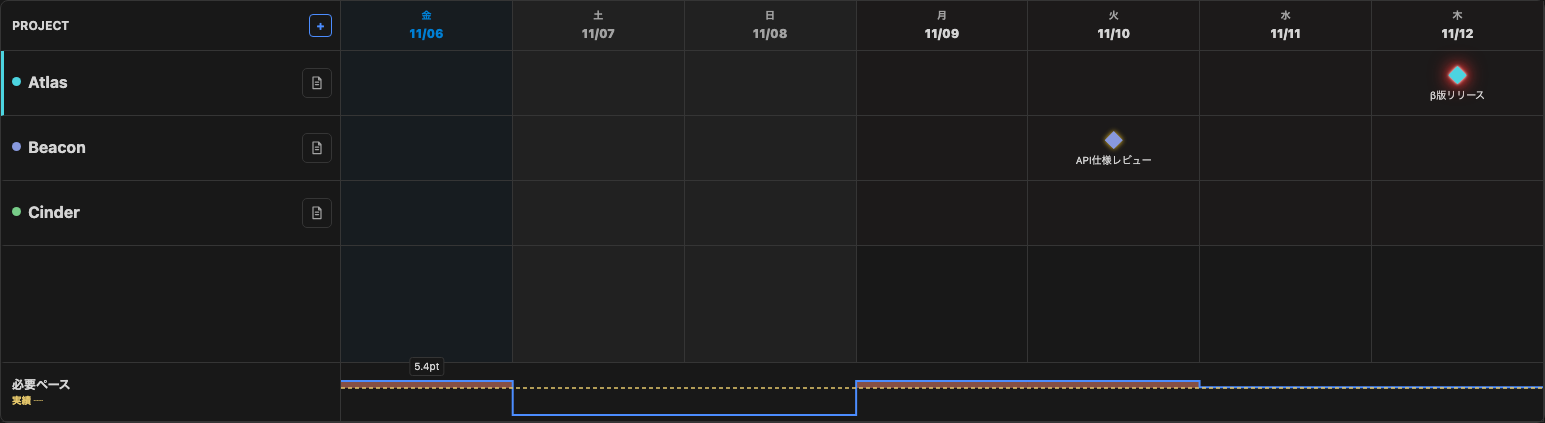
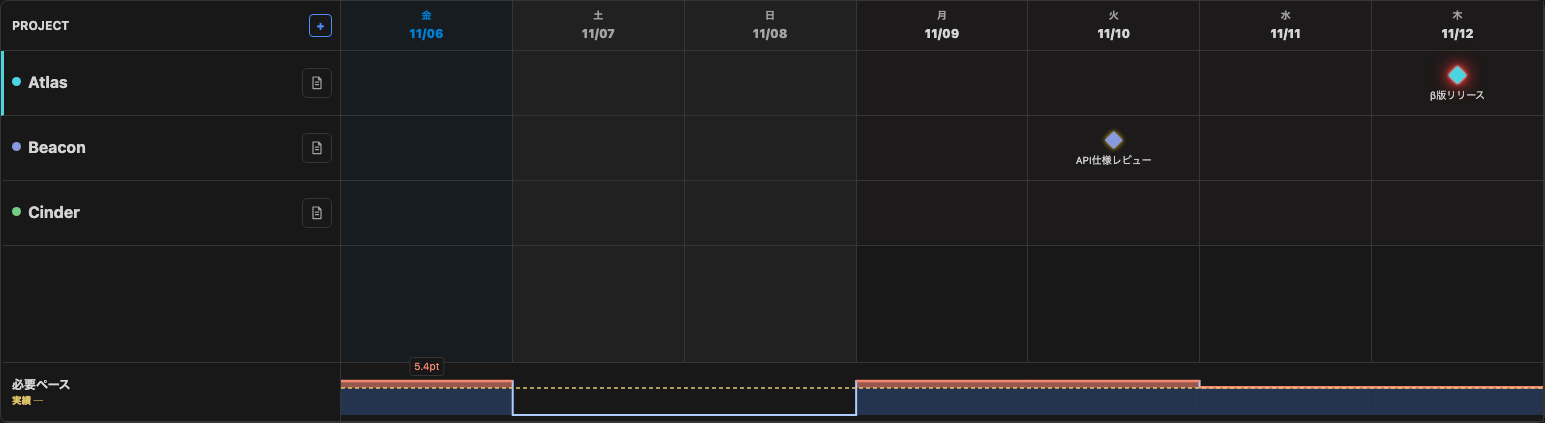
feat: add required pace graph visualization and overload indicators in timeline

Changed region(s): [[0.2175, 0.8605, 1.0, 0.9835]]

diff --git a/packages/webview/src/widgets/timeline/ui/Timeline.tsx b/packages/webview/src/widgets/timeline/ui/Timeline.tsx
@@ -68,6 +68,19 @@ function RequiredPace({
         preserveAspectRatio="none"
         aria-hidden="true"
       >
+        {values.map((value, index) => {
+          const top = showPace ? Math.max(y(value), y(pace)) : y(value);
+          return (
+            <rect
+              key={days[index]}
+              className="required-area"
+              x={index * 100}
+              y={top}
+              width="100"
+              height={y(0) - top}
+            />
+          );
+        })}
         {values.map(
           (value, index) =>
             showPace &&
@@ -88,6 +101,21 @@ function RequiredPace({
           fill="none"
           vectorEffect="non-scaling-stroke"
         />
+        {values.map(
+          (value, index) =>
+            showPace &&
+            value > pace && (
+              <line
+                key={days[index]}
+                className="overload-step"
+                x1={index * 100}
+                x2={(index + 1) * 100}
+                y1={y(value)}
+                y2={y(value)}
+                vectorEffect="non-scaling-stroke"
+              />
+            ),
+        )}
         {showPace && (
           <line
             className="pace-line"
@@ -101,7 +129,7 @@ function RequiredPace({
       </svg>
       {maxValue > 0 && (
         <span
-          className="chart-max"
+          className={`chart-max ${showPace && maxValue > pace ? "chart-max-overload" : ""}`}
           style={{
             left: `${((maxIndex + 0.5) / days.length) * 100}%`,
             bottom: `${((58 - y(maxValue)) / 58) * 100}%`,

diff --git a/packages/webview/src/app/style.css b/packages/webview/src/app/style.css
@@ -47,8 +47,12 @@ main {
   color: var(--vscode-errorForeground);
 }
 .required-step {
-  stroke: var(--vscode-charts-blue);
+  stroke: color-mix(in srgb, var(--vscode-charts-blue) 45%, white);
   stroke-width: 2;
+}
+.required-area {
+  fill: var(--vscode-charts-blue);
+  opacity: 0.24;
 }
 .pace-line {
   stroke: var(--vscode-charts-yellow);
@@ -57,7 +61,11 @@ main {
 }
 .overload-area {
   fill: var(--vscode-charts-red);
-  opacity: 0.5;
+  opacity: 0.58;
+}
+.overload-step {
+  stroke: var(--vscode-charts-red);
+  stroke-width: 2.5;
 }
 .delete-control {
   position: relative;
@@ -845,6 +853,9 @@ main {
   color: var(--vscode-foreground);
   font-size: 10px;
   white-space: nowrap;
+}
+.chart-max-overload {
+  color: var(--vscode-charts-red);
 }
 .event-details {
   display: grid;

diff --git a/openspec/traceability.md b/openspec/traceability.md
@@ -133,6 +133,7 @@ OpenSpec変更の作成時に以下の表へ行を追加する。\
 
 | 実施日 | 変更 | 実行コマンド | 結果 | 環境 |
 | --- | --- | --- | --- | --- |
+| 2026-11-06 | 必要ペースグラフの表示 | `corepack pnpm test tests/board-timeline/req-017-s01.test.ts tests/board-timeline/req-017-s02.test.ts`、`corepack pnpm typecheck`、`corepack pnpm check`、`corepack pnpm build`、`openspec validate --specs`、`git diff --check` | 関連2テスト成功、型・Biome・ビルド失敗0件、正式仕様7件の検証成功、[ダークテーマの画面例](../artifacts/readme-timeline.png)で青い必要量、黄色の実績線、赤い超過部分を確認 | Node 24.18.0、macOS arm64 |
 | 2026-11-06 | EVENT一覧を含む画面キャプチャ、Event要約、補足情報 | `corepack pnpm test`、`corepack pnpm typecheck`、`corepack pnpm check`、`corepack pnpm check:fsd`、`corepack pnpm build`、`openspec validate --specs`、`git diff --check` | 全96テスト成功、型・Biome・Steiger失敗0件、ビルド成功、正式仕様7件の検証成功、差分の空白エラー0件、ダークテーマの画面例でEVENT一覧とEvent要約の配置を確認 | Node 24.18.0、macOS arm64 |
 | 2026-11-03 | [data-persistence](changes/archive/2026-11-03-data-persistence/proposal.md) | `corepack pnpm test`、`corepack pnpm typecheck`、`corepack pnpm check`、`corepack pnpm check:fsd` | 9テスト成功、型・Biome・Steiger失敗0件 | Node 24.18.0、pnpm 12.16.1、macOS arm64 |
 | 2026-11-03 | [workload-analytics](changes/archive/2026-11-03-workload-analytics/proposal.md) | `corepack pnpm test`、`corepack pnpm typecheck`、`corepack pnpm check`、`corepack pnpm check:fsd` | 全23テスト成功、型・Biome・Steiger失敗0件、Steigerは同時実行時にOSのファイル監視上限で一度失敗し、単独再実行で成功 | Node 24.18.0、pnpm 12.16.1、macOS arm64 |
